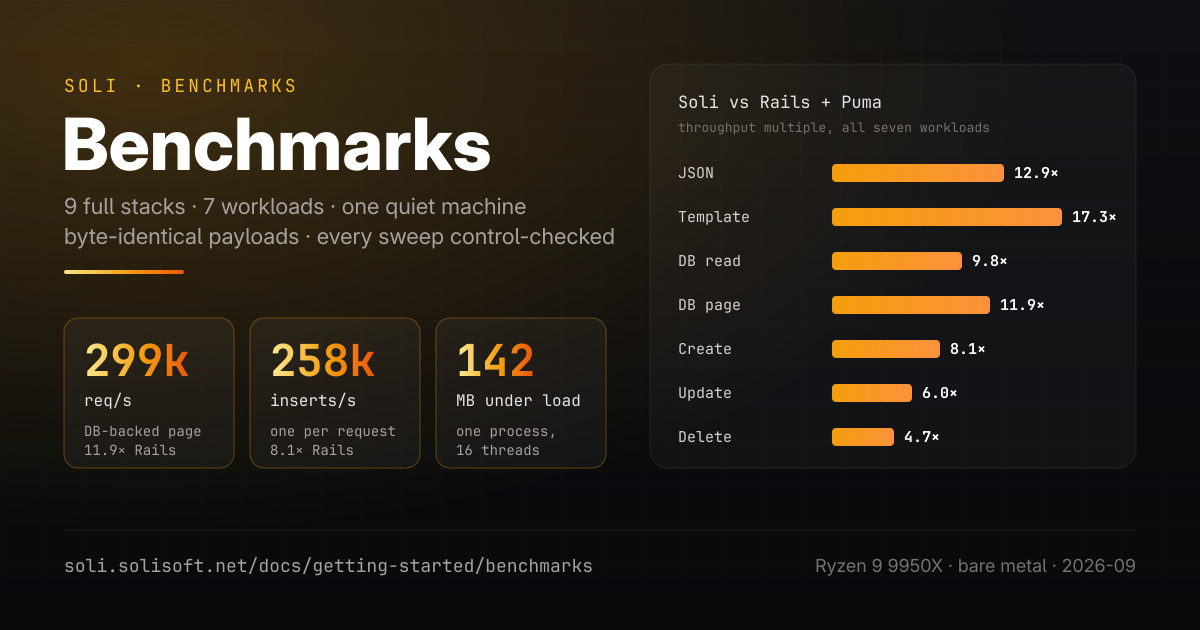
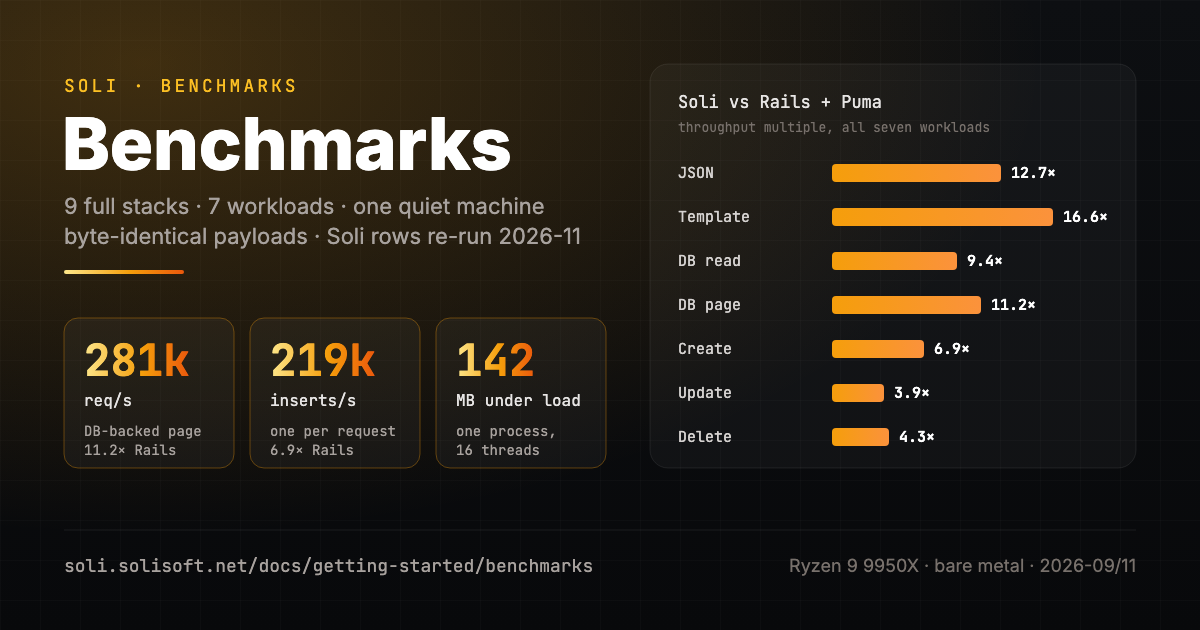
docs(benchmarks): Soli's rows re-measured on 2.29.3 and SoliDB 2.4.0
Soli's nine rows on the Benchmarks page, re-run on 2026-11-03 on the same
Ryzen 9 9950X with the same pinning (stack 0-7,16-23, oha 8-11,24-27,
SoliDB 12-15,28-31) and sweep.sh protocol, dist build of v2.29.3, mean of
two runs (spread under 2%):

  JSON 549,131 (12.7x Rails)   template 546,779   DB read 289,884
  DB read uncached 240,424     DB page 281,190 (11.2x)
  DB page uncached 234,311     create 218,618  update 146,114  delete 164,110

Only Soli ran, so there is no control cell tying the pass to the other
stacks' September sweep; the page now says so up front and reads every
lead as cross-session. Kemal is 3% ahead on JSON (was "tie"). The write
rows fell while Soli's own CPU per write held and SoliDB's rose (update
28 -> 45 us); the page points at SoliDB 2.4.0, says the two versions were
not A/B'd, and prints the lower figures. Memory and WebSocket rows were
not re-measured and are labelled as September's.

Updated together: benchmarks.md + .html.slv, the home page ramp and stats,
landing og:image:alt, home_controller description, both OpenGraph cards
(SVG, and PNGs re-rendered with the same web fonts), README, CHANGELOG.md
and the docs-site changelog's Unreleased section. The comparison page
quotes no benchmark figures; the soli-lang and solidb skills make no
benchmark claims, so none of their entries needed changing.

diff --git a/www/docs/benchmarks.md b/www/docs/benchmarks.md
@@ -8,13 +8,15 @@ stack gets the same **16-thread budget**: 16 workers for the six stacks that for
 single-threaded processes for Kemal, 16 threads for Soli, 16 BEAM schedulers for Phoenix.
 
 > **Read this first.** Every HTTP and memory figure on this page was measured on
-> 2026-09-28 — Soli's and Kemal's on 2026-09-29, in one pass together — on one quiet
-> 32-thread machine where each stack, the load generator and the
-> databases ran on **cores of their own**. Every sweep opens and closes with a control run
+> 2026-09-28 — Kemal's on 2026-09-29 — on one quiet 32-thread machine where each stack, the
+> load generator and the databases ran on **cores of their own**. **Soli's HTTP rows were
+> re-measured on 2026-11-03**, on Soli 2.29.3 and SoliDB 2.4.0, on the same machine with the
+> same pinning and protocol — but alone, so they are a cross-session comparison with every
+> other row (see *How these numbers were produced*). Every sweep opens and closes with a control run
 > that refuses to publish if the box drifted by more than 8%, the HTTP status of every
 > response was checked, and every write cell counted its table before and after. Where a
 > stack beats Soli, the number is printed exactly as measured — **Kemal edges Soli on the JSON
-> row by 1%**, **Express edges Soli on the WebSocket echo by 2% and holds half its p99**, and
+> row by 3%**, **Express edges Soli on the WebSocket echo by 2% and holds half its p99**, and
 > one Laravel cell carries 50 HTTP 500s that are counted, not hidden.
 >
 > This session **replaces** every earlier table. The machine, every runtime and every
@@ -45,7 +47,7 @@ queries would see; the CPU/req column is the figure that travels best to other h
 |---|---|---|
 | The stack under test (16 workers / threads / schedulers) | 0–7, 16–23 | cores 0–7 — the whole first CCD, SMT siblings included |
 | `oha`, the load generator | 8–11, 24–27 | 4 cores of the second CCD |
-| PostgreSQL 18.6 and SoliDB 2.0.5 | 12–15, 28–31 | the other 4 cores of the second CCD |
+| PostgreSQL 18.6 and SoliDB (2.0.5, then 2.4.0 for Soli's 2026-11 rows) | 12–15, 28–31 | the other 4 cores of the second CCD |
 
 Pinning was set with `taskset` and verified on every process, including the ones that rootless
 Podman starts outside the launching shell (php-fpm, nginx, FrankenPHP, PostgreSQL). It means a
@@ -74,9 +76,8 @@ itself is not the bottleneck anywhere on this page.
 
 ### Soli's settings
 
-The binary is Soli 2.6.6 plus what is on `main` since (the response cache, the WebSocket direct
-send, the accept-loop fix and the static-path and futures fixes, up to commit `deb1806e`), built
-with the shipped `dist` profile
+The HTTP rows use the **Soli 2.29.3** release (commit `0aeb88dc`), built with the shipped
+`dist` profile
 (fat LTO, one codegen unit), run as
 `SOLI_WS_WORKERS=0 SOLI_DB_DRIVER=1 soli serve . --port 5080 --workers 16`:
 
@@ -87,8 +88,8 @@ with the shipped `dist` profile
 * SoliDB's **query-result cache is on**, which is its default; the uncached rows set
   `SOLI_DB_NO_QUERY_CACHE=1`. Soli's **response cache is on**, which is its default and cannot
   be switched off (see the Template row).
-* SoliDB **2.0.5** (tag `v2.0.5`) ran as a separate process with default settings on its own
-  data directory.
+* SoliDB **2.4.0** (2.0.5 for the September rows quoted in prose) ran as a separate process
+  with default settings on its own data directory.
 * For the WebSocket section only, the per-address and per-socket abuse limits are off (see
   there).
 
@@ -102,18 +103,29 @@ Every published sweep opened and closed with `control.sh`, which re-measures two
 (Express `/json`, Soli `/template`) and refuses the run on more than 8% drift. The main sweep
 closed at −5.2% and +0.3%; every follow-up pass was bracketed the same way.
 
-Soli's and Kemal's rows come from one final pass on 2026-09-29, on the current build and
-SoliDB 2.0.5, with the two stacks measured cell by cell in the same sweeps — so **Soli against
-Kemal is a same-session comparison**. That pass had to rebase one of its controls, and says so:
-the current build serves the Soli control cell itself 15.7% faster than the 495,000 req/s it
+**Soli's HTTP rows come from a pass of their own on 2026-11-03**: the Soli 2.29.3 release on
+SoliDB 2.4.0, on this machine and the same cores, with `sweep.sh` and the same 8 s warm-up and
+30 s measurement. Each figure is the mean of two runs, which agreed within 2%; the two uncached
+reference rows come from two further runs. Only Soli was running, so the pass has **no control
+cell against the other stacks** — Express's control needs Express — and nothing ties it to the
+September sweep except the machine, the pinning and the protocol. Read Soli against every other
+row as a cross-session comparison, and the leads below accordingly; the JSON row, where Kemal is
+3% ahead, is the only one close enough for that to decide the order. The memory table and the
+WebSocket rows were not re-measured and still describe the September build.
+
+The September pass below measured Soli and Kemal cell by cell in the same sweeps, on the build
+of that day and SoliDB 2.0.5 — so Kemal's rows are from a same-session comparison with a Soli
+that this page no longer prints. That pass had to rebase one of its controls, and says so:
+that day's build served the Soli control cell itself 15.7% faster than the 495,000 req/s it
 was calibrated at (that cell is the response cache's, and this build made the cache cheaper),
-so the Soli control was re-anchored at 572,562, measured on this build at the start of the pass,
+so the Soli control was re-anchored at 572,562, measured on that build at the start of the pass,
 and only guards against drift *within* it. The check that ties the pass to the other stacks'
 main sweep is Express's control, which read between −4.7% and +4.3% across the pass's eight
 controls, centred on zero, while the rebased Soli control stayed within ±0.7%. The box did not
-drift in one direction, so Soli's and Kemal's rows are comparable to the stacks measured on
-2026-09-28 within about ±5% — the protocol's tolerance, and smaller than every lead quoted
-below except the JSON one.
+drift in one direction, so Kemal's rows are comparable to the stacks measured on 2026-09-28
+within about ±5% — the protocol's tolerance. The November Soli pass read that same control cell
+(`/template`) at 546,779 req/s on 2.29.3, 4.5% below the September anchor: a different build, so
+on its own it says nothing about the box.
 
 The day before, Soli's control cell read +6.0% to +7.6% on an older build in every follow-up
 pass, while Express's stayed within ±5.6%. The cause was never established (the main sweep ran
@@ -124,7 +136,7 @@ and nothing more), and a rebased control cannot settle it now.
 
 | | |
 |---|---|
-| Soli | 2.6.6 plus `main` up to `deb1806e` (built with fat LTO, one codegen unit — the shipped `dist` profile), `soli serve .`, 16 HTTP workers, `SOLI_WS_WORKERS=0`; SoliDB **2.0.5** (tag `v2.0.5`) over the **native MessagePack driver** (`SOLI_DB_DRIVER=1`, pooled TCP, not HTTP) for the DB and write rows |
+| Soli | **2.29.3** (built with fat LTO, one codegen unit — the shipped `dist` profile), `soli serve .`, 16 HTTP workers, `SOLI_WS_WORKERS=0`; SoliDB **2.4.0** over the **native MessagePack driver** (`SOLI_DB_DRIVER=1`, pooled TCP, not HTTP) for the DB and write rows |
 | Rails | 8.1.4 + Puma 8.0.2 on **Ruby 4.0.7** — production, eager-loaded, 16 workers × 5 threads, PostgreSQL via ActiveRecord |
 | Laravel | 13.33 on **PHP 8.5.11** (php-fpm, `pm = static`, 16 workers) + nginx (16 workers), in a container with host networking — Eloquent + Blade, OPcache, config/route/view cached, persistent PDO connections, `composer install --no-dev -o` |
 | Laravel + Octane | The same application on Octane 2.20 / FrankenPHP 1.12.7, 16 workers, app resident between requests. A **labelled reference row**, not "Laravel": it is a deployment choice that roughly doubles every result |
@@ -134,7 +146,7 @@ and nothing more), and a rebased control cannot settle it now.
 | AdonisJS | **7.5.2** on **Node 26.10**, 16 cluster workers — Lucid 22.4 + Edge 6.5, built to JavaScript and run from `build/`, `NODE_ENV=production`, the same web-kit middleware and providers as its 6.x predecessor (session, shield, static, vite) |
 | Kemal | **1.14.0** on **Crystal 1.21.1** (LLVM 20), `shards build --release --production` — **16 single-threaded processes** on one port with `SO_REUSEPORT` (Crystal's multi-threading is still behind `-Dpreview_mt`), each with a pool of 5 PostgreSQL connections — **+ Jennifer 0.13.0** (ORM, on crystal-db 0.14 and crystal-pg 0.30) **+ ECR**: Kemal ships neither an ORM nor a view layer beyond Crystal's compile-time ECR, so Jennifer was added, as Sequelize is for Express. Reads project with `pluck`, Jennifer's query log is set to `error`, and the view calls `HTML.escape` itself because ECR does not escape. **Not comparable feature for feature**: a micro-framework with no sessions, CSRF protection or security headers in the request path |
 | Express | 5.2.1 on Node 26.10, 16 cluster workers — **+ EJS 6.0 + Sequelize 6.37.8** (on node-postgres 8.23): Express ships no view layer and no DB layer, so both were added. The DB rows go through the **ORM**, not the raw driver; the driver figures are reference rows |
-| Database | PostgreSQL **18.6** (`max_connections=500`, `synchronous_commit=off` — see Writes) for the eight PostgreSQL stacks, same table, same 50 rows; SoliDB 2.0.5 for Soli. Both client-server over loopback, no in-process storage anywhere |
+| Database | PostgreSQL **18.6** (`max_connections=500`, `synchronous_commit=off` — see Writes) for the eight PostgreSQL stacks, same table, same 50 rows; SoliDB 2.4.0 for Soli. Both client-server over loopback, no in-process storage anywhere |
 | Load | `oha` 1.16 — 30 s at concurrency 200 per cell, after an 8 s warm-up of that cell at concurrency 100 |
 | Machine | See *How these numbers were produced* above |
 
@@ -159,7 +171,7 @@ column here — unlike req/s it barely moves with core count or client speed.
 | Stack | req/s | p99 | CPU/req | vs Rails |
 |---|---:|---:|---:|---:|
 | Kemal + Jennifer + ECR | 566,686 | 1.20 ms | 24 µs | 13.1x |
-| **Soli** | 561,290 | 0.88 ms | 23 µs | 12.9x |
+| **Soli** | 549,131 | 0.89 ms | 23 µs | 12.7x |
 | Express + EJS + Sequelize | 306,503 | 1.25 ms | 47 µs | 7.1x |
 | FastAPI + SQLAlchemy + Jinja2 | 176,502 | 2.16 ms | 85 µs | 4.1x |
 | Phoenix + Ecto + HEEx | 106,584 | 4.82 ms | 140 µs | 2.5x |
@@ -169,12 +181,13 @@ column here — unlike req/s it barely moves with core count or client speed.
 | Laravel + Octane *(reference)* | 15,322 | 19.00 ms | 1,010 µs | 0.4x |
 | Laravel + php-fpm | 8,140 | 25.48 ms | 1,883 µs | 0.2x |
 
-Framework overhead only — no database, no template. **Kemal and Soli tie this row**: Kemal's
-566,686 req/s is 1% ahead of Soli's 561,290, inside the run-to-run spread, on 24 µs of CPU per
-request against Soli's 23; Soli's p99 is the lower, 0.88 ms against 1.20. Kemal is compiled
-Crystal and does less per request — no session, no CSRF check, no security headers — so a tie
+Framework overhead only — no database, no template. **Kemal leads this row, narrowly**: its
+566,686 req/s is 3% ahead of Soli's 549,131 — measured five weeks apart, inside the ±5% the two
+sessions can be compared to — on 24 µs of CPU per request against Soli's 23; Soli's p99 is the
+lower, 0.89 ms against 1.20. Kemal is compiled
+Crystal and does less per request — no session, no CSRF check, no security headers — so a near-tie
 on the bare request path is the honest reading. Behind them Soli serves the response at
-**12.9x Rails' throughput on 14x less CPU**, and at 1.8x Express. The CPU column orders the
+**12.7x Rails' throughput on 14x less CPU**, and at 1.8x Express. The CPU column orders the
 field the way the throughput does: Soli 23 µs, Kemal 24, Express 47, FastAPI 85, Phoenix 140.
 On a handler this small the differences are the cost of the request path itself — routing, the
 response object, the header set, the write — and that is exactly what this row isolates.
@@ -183,7 +196,7 @@ response object, the header set, the write — and that is exactly what this row
 
 | Stack | req/s | p99 | CPU/req | vs Rails |
 |---|---:|---:|---:|---:|
-| **Soli** | 567,897 | 0.85 ms | 22 µs | 17.3x |
+| **Soli** | 546,779 | 0.91 ms | 23 µs | 16.6x |
 | Kemal + Jennifer + ECR | 513,106 | 1.33 ms | 27 µs | 15.6x |
 | Express + EJS + Sequelize | 149,354 | 1.76 ms | 101 µs | 4.5x |
 | Phoenix + Ecto + HEEx | 93,973 | 2.59 ms | 162 µs | 2.9x |
@@ -194,13 +207,13 @@ response object, the header set, the write — and that is exactly what this row
 | Django + gunicorn | 13,134 | 16.15 ms | 1,183 µs | 0.4x |
 | Laravel + php-fpm | 7,613 | 27.20 ms | 2,017 µs | 0.2x |
 
-Soli serves the page at **17.3x Rails**, **3.8x Express** and 1.11x Kemal — but this row does
+Soli serves the page at **16.6x Rails**, **3.7x Express** and 1.07x Kemal — but this row does
 not measure Soli's template engine, and it would be misleading to read it that way. Soli keeps a
 **response cache** that no other stack here has: a page whose output depends only on the data
 passed to `render()` — this one, and the default `soli new` home page — is kept per worker as
 the *finished* response (body, injected scripts, ETag), and a request that renders the same
 template with the same data gets it back without rendering at all. That is why the row costs
-about the same CPU as the JSON row (22 µs against 23). It was checked directly: adding a
+the same CPU as the JSON row (23 µs against 23). It was checked directly: adding a
 2,000-iteration loop to this view left the throughput unchanged.
 
 **Kemal's row is the fastest real render on this page.** ECR compiles the view into the binary
@@ -222,8 +235,8 @@ there, noted rather than normalised away.
 
 | Stack | req/s | p99 | CPU/req | vs Rails |
 |---|---:|---:|---:|---:|
-| **Soli** | 301,023 | 1.16 ms | 35 µs (44 incl. SoliDB) | 9.8x |
-| Soli, SoliDB query cache off *(reference)* | 222,993 | 1.32 ms | 38 µs (68 incl. SoliDB) | 7.2x |
+| **Soli** | 289,884 | 1.12 ms | 37 µs (46 incl. SoliDB) | 9.4x |
+| Soli, SoliDB query cache off *(reference)* | 240,424 | 1.18 ms | 39 µs (64 incl. SoliDB) | 7.8x |
 | Kemal + Jennifer + ECR | 193,750 | 1.21 ms | 57 µs | 6.3x |
 | Express + EJS + Sequelize | 94,755 | 3.35 ms | 156 µs | 3.1x |
 | Phoenix + Ecto + HEEx | 67,843 | 4.86 ms | 220 µs | 2.2x |
@@ -242,11 +255,11 @@ executes and serialises every request. The main Soli row is what an app gets by 
 reference row turns the memoization off with `SOLI_DB_NO_QUERY_CACHE=1` and is the
 like-for-like database comparison.
 
-**Without the cache, Soli still leads the row**: 222,993 req/s against Kemal's 193,750 — the
-nearest, on PostgreSQL through Jennifer, 1.15x behind — Express's 94,755 and Phoenix's 67,843,
-and **7.2x Rails**. It also out-reads Express on the raw `pg` driver with no ORM in the path
+**Without the cache, Soli still leads the row**: 240,424 req/s against Kemal's 193,750 — the
+nearest, on PostgreSQL through Jennifer, 1.24x behind — Express's 94,755 and Phoenix's 67,843,
+and **7.8x Rails**. It also out-reads Express on the raw `pg` driver with no ORM in the path
 (160,230, reference cells below), which led this comparison until SoliDB 2.0.5. Soli spends
-38 µs per request in its own process and 30 µs in SoliDB's; Kemal spends 57 µs in its
+39 µs per request in its own process and 25 µs in SoliDB's; Kemal spends 57 µs in its
 processes, with PostgreSQL's CPU not counted.
 
 **SoliDB 2.0.2 is what made that true.** On 2.0.1, measured earlier the same day on the same
@@ -254,12 +267,12 @@ box, the uncached row read **38,086 req/s** — behind Phoenix, Express and Adon
 SoliDB spending **184 µs** of CPU per request against Soli's own 35. That measurement is why
 2.0.2 exists: it cut SoliDB's CPU on this query by 65% and tripled the row (112,180). The
 versions since: 2.0.3 left this row at 113,030; 2.0.4 read 140,259, +24%, in a same-session
-A/B that alternated the two versions twice each (SoliDB's CPU per request 64 → 50 µs). **2.0.5,
-published here, reads 222,993 — +59% over 2.0.4 — on 30 µs of SoliDB CPU per request.** Its
-read path is the change: another session's A/B, alternating 2.0.4 and a 2.0.5 pre-release
-twice each on the previous Soli build, read 137,767 against 237,319. This pass, on the tag and
-the current build, reads 6% below that pre-release figure; the cause is not established, and
-the lower number is the one printed.
+A/B that alternated the two versions twice each (SoliDB's CPU per request 64 → 50 µs). 2.0.5 read
+222,993 — +59% over 2.0.4 — on 30 µs of SoliDB CPU per request. Its read path is the change:
+another session's A/B, alternating 2.0.4 and a 2.0.5 pre-release twice each on the previous
+Soli build, read 137,767 against 237,319. **SoliDB 2.4.0, published here, reads 240,424 on
+25 µs of SoliDB CPU per request** — 8% above 2.0.5's figure, across two sessions and two Soli
+builds, so not an A/B of the databases.
 
 > **The two rows are not the same query path, and the cached one is not a like-for-like
 > result.** A cached read is a key lookup and a copy; the nearest equivalent for the other
@@ -293,8 +306,8 @@ the only added variable.
 
 | Stack | req/s | p99 | CPU/req | vs Rails |
 |---|---:|---:|---:|---:|
-| **Soli** | 299,012 | 1.20 ms | 35 µs (44 incl. SoliDB) | 11.9x |
-| Soli, SoliDB query cache off *(reference)* | 222,054 | 1.30 ms | 38 µs (69 incl. SoliDB) | 8.9x |
+| **Soli** | 281,190 | 1.14 ms | 39 µs (48 incl. SoliDB) | 11.2x |
+| Soli, SoliDB query cache off *(reference)* | 234,311 | 1.26 ms | 41 µs (65 incl. SoliDB) | 9.4x |
 | Kemal + Jennifer + ECR | 192,564 | 1.28 ms | 59 µs | 7.7x |
 | Phoenix + Ecto + HEEx | 72,263 | 4.40 ms | 208 µs | 2.9x |
 | Express + EJS + Sequelize | 70,143 | 4.04 ms | 214 µs | 2.8x |
@@ -310,10 +323,10 @@ every request, but the page rendered from its result can still come out of the r
 because the result is the same each time. The uncached row therefore measures the database
 path in full and the render path at its best.
 
-Soli takes the row with or without its query cache — **8.9x Rails' throughput uncached**, and
-1.15x Kemal (192,564), ahead of Phoenix (72,263) and Express (70,143). What the render costs
-once a query is in the request differs sharply by stack: **nothing for Soli** — its uncached
-page and its uncached JSON read are the same 222k req/s — nothing for Kemal (0.6%), whose ECR
+Soli takes the row with or without its query cache — **9.4x Rails' throughput uncached**, and
+1.22x Kemal (192,564), ahead of Phoenix (72,263) and Express (70,143). What the render costs
+once a query is in the request differs sharply by stack: **almost nothing for Soli** — its
+uncached page reads 3% below its uncached JSON read, 234k against 240k req/s — nothing for Kemal (0.6%), whose ECR
 page is compiled code, and nothing for Phoenix, whose page is slightly *faster* than its JSON
 read, but **26% for Express** (94,755 → 70,143) and 45% for Django.
 
@@ -334,7 +347,7 @@ promises: survive a process crash, not a power cut. Neither column is "durable w
 
 | Stack | req/s | p99 | CPU/req | vs Rails |
 |---|---:|---:|---:|---:|
-| **Soli** | 258,295 | 2.44 ms | 25 µs (48 incl. SoliDB) | 8.1x |
+| **Soli** | 218,618 | 2.60 ms | 28 µs (55 incl. SoliDB) | 6.9x |
 | Phoenix + Ecto + HEEx | 124,305 | 3.65 ms | 114 µs | 3.9x |
 | Kemal + Jennifer + ECR | 97,679 | 5.15 ms | 27 µs | 3.1x |
 | Express + EJS + Sequelize | 91,537 | 3.45 ms | 162 µs | 2.9x |
@@ -353,7 +366,7 @@ rather than re-run until clean. The delete run on the same stack, later, returne
 
 | Stack | req/s | p99 | CPU/req | vs Rails |
 |---|---:|---:|---:|---:|
-| **Soli** | 223,931 | 2.30 ms | 25 µs (53 incl. SoliDB) | 6.0x |
+| **Soli** | 146,114 | 3.28 ms | 27 µs (72 incl. SoliDB) | 3.9x |
 | Phoenix + Ecto + HEEx | 123,792 | 3.57 ms | 114 µs | 3.3x |
 | Kemal + Jennifer + ECR | 107,399 | 11.19 ms | 15 µs | 2.9x |
 | Express + EJS + Sequelize | 85,882 | 3.83 ms | 173 µs | 2.3x |
@@ -368,7 +381,7 @@ rather than re-run until clean. The delete run on the same stack, later, returne
 
 | Stack | req/s | p99 | CPU/req | vs Rails | rows removed |
 |---|---:|---:|---:|---:|---:|
-| **Soli** | 182,445 | 2.69 ms | 27 µs (63 incl. SoliDB) | 4.7x | 88% of requests |
+| **Soli** | 164,110 | 3.18 ms | 30 µs (68 incl. SoliDB) | 4.3x | 89% of requests |
 | Phoenix + Ecto + HEEx | 82,431 | 28.99 ms | 117 µs | 2.1x | 94% of requests |
 | Express + EJS + Sequelize | 74,373 | 26.21 ms | 104 µs | 1.9x | 95% of requests |
 | Kemal + Jennifer + ECR | 67,995 | 10.23 ms | 14 µs | 1.8x | 95% of requests |
@@ -391,19 +404,29 @@ stacks by how quickly they ran out of work.
 A key drawn at random from *N* rows reaches *N*·(1 − e^(−k/*N*)) distinct rows after *k*
 requests. At the 4.3 million requests Express made in its first delete cell, 800,000 rows gives
 an 18% hit rate, which is what it measured. On **20 million rows** the same formula gives 88%
-for the 5.5 million requests Soli, the fastest, made in 30 s — exactly what it measured — and
+for the 5.5 million requests Soli, the fastest, made in 30 s in September — exactly what it measured — and
 every PostgreSQL stack stayed at 94% or above.
 The table size is now a harness knob (`WPOOL`, read by every app at boot), and this row was
 re-measured on all nine stacks with it (and on Kemal, when it joined); the create and update rows, whose every request does
 real work at any table size, were not. The "rows removed" column is still measured, not
 assumed, so the remaining few percent of misses stay visible.
 
-**Soli leads all three write rows, by about 2x over Phoenix**, the nearest stack on every one:
-create 258,295 against 124,305 (8.1x Rails), update 223,931 against 123,792 (6.0x Rails), and
-on delete 182,445 against Phoenix's 82,431 (4.7x Rails). Soli's rows-removed figure is the lowest in the table (88%) precisely because it made the most requests, so compare real deletes per second instead — about **160,000 for Soli, 77,000 for Phoenix, 71,000 for Express and 65,000 for Kemal** — and the lead holds at 2.1x Phoenix. This is SoliDB 2.0.3's change more than Soli's: it stopped
+**Soli leads all three write rows**, with Phoenix the nearest stack on every one: create
+218,618 against 124,305 (6.9x Rails, 1.8x Phoenix), update 146,114 against 123,792 (3.9x Rails,
+**1.18x Phoenix — the narrowest lead on the page**), and delete 164,110 against Phoenix's
+82,431 (4.3x Rails). Soli's rows-removed figure is the lowest in the table (89%) precisely because it made the most requests, so compare real deletes per second instead — about **146,000 for Soli, 77,000 for Phoenix, 71,000 for Express and 65,000 for Kemal** — and the lead holds at 1.9x Phoenix.
+
+**These three rows fell between the two sessions**, and the database is where the cost went. In
+September, on SoliDB 2.0.5, Soli wrote 258,295 creates, 223,931 updates and 182,445 deletes per
+second. In November, on SoliDB 2.4.0, Soli's own CPU per write barely moved (27–30 µs against
+25–27) while SoliDB's rose — 27 µs per create against 23, **45 µs per update against 28**, 38 per
+delete against 36 — and update, where SoliDB's cost grew most, fell most (−35%). The two SoliDB
+versions were not A/B'd on this machine, so that is a strong lead rather than an established
+cause; the November figures are the ones printed. The uncached read moved the other way
+(+8%, above). SoliDB has moved these rows before: 2.0.3 stopped
 writing the replication sync log until something reads it, and on the same Soli build it
 lifted create from 136,132 to 235,967 and update from 131,804 to 218,333. Per write, Soli's
-own process spends 25–27 µs and SoliDB 22–35 µs more, against Phoenix's 114–117 µs in its
+own process spends 27–30 µs and SoliDB 27–45 µs more, against Phoenix's 114–117 µs in its
 process alone; PostgreSQL's CPU is not counted for any of the eight PostgreSQL stacks, so
 the comparison is, if anything, kind to them.
 
@@ -413,7 +436,7 @@ least on the page. Kemal is not busy; it waits on PostgreSQL, through the same 8
 every PostgreSQL stack gets, with a p99 of 5–11 ms. Which part of the round trip it waits on —
 the driver, Jennifer's statement handling or the server — was not profiled.
 
-Every stack writes more slowly than it reads — Soli's create row is half its template row — because a write has to reach another process and a log, whichever framework issued it.
+Every stack writes more slowly than it reads — Soli's create row is two fifths of its template row — because a write has to reach another process and a log, whichever framework issued it.
 
 ## Reference cells
 
@@ -542,8 +565,8 @@ the first socket opens.
 | AdonisJS + Lucid + Edge | 17 (fork + CoW) | 898 MB | 2,467 MB |
 | FastAPI + SQLAlchemy + Jinja2 | 18 (**spawn**, no CoW) | 1,013 MB | 1,044 MB |
 
-Soli's and Kemal's rows come from a cold restart of each right after the final pass, on the
-build and SoliDB version published above. Soli's idle figure is 15 MB above the 97 MB (126 MB
+Soli's and Kemal's rows come from a cold restart of each right after the 2026-09-29 pass, on
+that day's build and SoliDB 2.0.5; Soli's were not re-measured with its November HTTP rows. Soli's idle figure is 15 MB above the 97 MB (126 MB
 under load) measured for the previous build on 2026-09-28, and another session read 111 MB idle
 on the intermediate build: the growth is real, and its cause has not been established. Figures are **PSS** (proportional set size) summed over the whole process group — the honest
 measure for multi-process servers, because summing RSS counts every fork-shared page 17
@@ -581,13 +604,13 @@ shares the parent's modules.
 
 Trivial handlers measure fixed framework overhead, which is where the gaps are widest: 13x
 Rails on JSON, and 17x on the template, where Soli's response cache is also at work. On routes
-dominated by real database work the multiple compresses — 7.2x on the uncached read, 4.7–8x
+dominated by real database work the multiple compresses — 7.8x on the uncached read, 3.9–6.9x
 on the writes — because the database, the transport to it and the ORM take over the request,
 whatever framework issued it. The claim this page supports is: **Soli's framework overhead is
 a small fraction of every other full-stack framework's here, it is matched only by Kemal — a
 compiled micro-framework doing less per request — it leads every database row even with its
-query cache off, Kemal included, and it leads every write row by about 2x over Phoenix, the
-nearest stack.**
+query cache off, Kemal included, and it leads every write row over Phoenix, the nearest
+stack — by 1.8x on create and 1.9x on real deletes, but only 1.18x on update.**
 Quote it that way — and quote the uncached database row, not the cached one, when the
 question is databases.
 

diff --git a/CHANGELOG.md b/CHANGELOG.md
@@ -2,6 +2,18 @@
 
 ## [Unreleased]
 
+### Changed
+
+- The Benchmarks page (`www/docs/benchmarks.md` and its `.html.slv`), the home
+  page's load ramp and stats, the README and both OpenGraph cards carry Soli
+  2.29.3's numbers, re-measured on 2026-11-03 on the 9950X box with SoliDB
+  2.4.0 (mean of two runs; Soli alone, so no control cell against the other
+  stacks, which keep their 2026-09 figures). JSON 549,131 req/s (12.7x Rails),
+  template 546,779, DB read 289,884 (uncached 240,424), DB page 281,190
+  (11.2x), create 218,618, update 146,114, delete 164,110. The write rows
+  dropped against the September figures while SoliDB's CPU per write rose;
+  the page says the two SoliDB versions were not A/B'd.
+
 ## [2.29.3] - 2026-11-01
 
 ### Changed

diff --git a/README.md b/README.md
@@ -52,8 +52,8 @@ end
 
 ### Performance
 - **Bytecode VM in production** for controllers, middleware, models and views
-- **561k req/s** on a JSON response and **568k req/s** on a rendered 50-row page, with 16
-  hardware threads — **12.9x Rails** on the JSON row, tied with Kemal (compiled Crystal). Full
+- **549k req/s** on a JSON response and **547k req/s** on a rendered 50-row page, with 16
+  hardware threads — **12.7x Rails** on the JSON row, 3% behind Kemal (compiled Crystal). Full
   methodology, every stack and every caveat: [`www/docs/benchmarks.md`](www/docs/benchmarks.md)
 - **Response cache** for pages that depend only on what they render, and **`grouped`** to ship
   several database reads in one round trip
